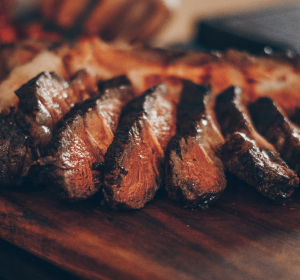
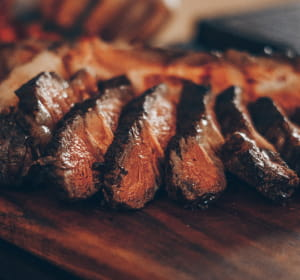
:bento: chore: Optmizing assets

diff --git a/src/assets/funcionamento.jsx b/src/assets/funcionamento.jsx
@@ -5,9 +5,18 @@ import Img from "gatsby-image";
 const Image = () => {
   const data = useStaticQuery(graphql`
     query {
-      placeholderImage: file(relativePath: { eq: "img/funcionamento.jpg" }) {
+      mobileImage: file(
+        relativePath: { eq: "img/mobile/funcionamento-mobile.jpg" }
+      ) {
         childImageSharp {
-          fluid(maxWidth: 2000, quality: 80) {
+          fluid(maxWidth: 1000, quality: 100) {
+            ...GatsbyImageSharpFluid
+          }
+        }
+      }
+      desktopImage: file(relativePath: { eq: "img/funcionamento.jpg" }) {
+        childImageSharp {
+          fluid(maxWidth: 2000, quality: 100) {
             ...GatsbyImageSharpFluid
           }
         }
@@ -15,7 +24,15 @@ const Image = () => {
     }
   `);
 
-  return <Img fluid={data.placeholderImage.childImageSharp.fluid} />;
+  const sources = [
+    data.mobileImage.childImageSharp.fluid,
+    {
+      ...data.desktopImage.childImageSharp.fluid,
+      media: `(min-width: 768px)`,
+    },
+  ];
+
+  return <Img fluid={sources} />;
 };
 
 export default Image;

diff --git a/src/assets/menu-1.jsx b/src/assets/menu-1.jsx
@@ -5,9 +5,16 @@ import Img from "gatsby-image";
 const Image = () => {
   const data = useStaticQuery(graphql`
     query {
-      placeholderImage: file(relativePath: { eq: "img/menu-1.jpg" }) {
+      mobileImage: file(relativePath: { eq: "img/mobile/menu-1-mobile.jpg" }) {
         childImageSharp {
-          fluid(maxWidth: 2000, quality: 80) {
+          fluid(maxWidth: 1000, quality: 100) {
+            ...GatsbyImageSharpFluid
+          }
+        }
+      }
+      desktopImage: file(relativePath: { eq: "img/menu-1.jpg" }) {
+        childImageSharp {
+          fluid(maxWidth: 2000, quality: 100) {
             ...GatsbyImageSharpFluid
           }
         }
@@ -15,7 +22,15 @@ const Image = () => {
     }
   `);
 
-  return <Img fluid={data.placeholderImage.childImageSharp.fluid} />;
+  const sources = [
+    data.mobileImage.childImageSharp.fluid,
+    {
+      ...data.desktopImage.childImageSharp.fluid,
+      media: `(min-width: 768px)`,
+    },
+  ];
+
+  return <Img fluid={sources} />;
 };
 
 export default Image;

diff --git a/src/assets/footer-churrascaria.jsx b/src/assets/footer-churrascaria.jsx
@@ -7,7 +7,9 @@ const ArtDirectedBackground = ({ className, id, children }) => {
   const { mobileImage, desktopImage } = useStaticQuery(
     graphql`
       query {
-        mobileImage: file(relativePath: { eq: "img/footer-churrascaria.jpg" }) {
+        mobileImage: file(
+          relativePath: { eq: "img/mobile/footer-churrascaria-mobile.jpg" }
+        ) {
           childImageSharp {
             fluid(maxWidth: 1000, quality: 80) {
               ...GatsbyImageSharpFluid_withWebp

diff --git a/src/assets/capa-churrascaria.jsx b/src/assets/capa-churrascaria.jsx
@@ -7,7 +7,9 @@ const ArtDirectedBackground = ({ className, id, children }) => {
   const { mobileImage, desktopImage } = useStaticQuery(
     graphql`
       query {
-        mobileImage: file(relativePath: { eq: "img/capa-churrascaria.jpg" }) {
+        mobileImage: file(
+          relativePath: { eq: "img/mobile/capa-churrascaria-mobile.jpg" }
+        ) {
           childImageSharp {
             fluid(maxWidth: 1000, quality: 80) {
               ...GatsbyImageSharpFluid_withWebp

diff --git a/src/assets/footer-contato.jsx b/src/assets/footer-contato.jsx
@@ -7,7 +7,9 @@ const ArtDirectedBackground = ({ className, id, children }) => {
   const { mobileImage, desktopImage } = useStaticQuery(
     graphql`
       query {
-        mobileImage: file(relativePath: { eq: "img/footer-contato.jpg" }) {
+        mobileImage: file(
+          relativePath: { eq: "img/mobile/footer-contato-mobile.jpg" }
+        ) {
           childImageSharp {
             fluid(maxWidth: 1000, quality: 80) {
               ...GatsbyImageSharpFluid_withWebp

diff --git a/src/assets/capa-contato.jsx b/src/assets/capa-contato.jsx
@@ -7,7 +7,9 @@ const ArtDirectedBackground = ({ className, id, children }) => {
   const { mobileImage, desktopImage } = useStaticQuery(
     graphql`
       query {
-        mobileImage: file(relativePath: { eq: "img/capa-contato.jpg" }) {
+        mobileImage: file(
+          relativePath: { eq: "img/mobile/capa-contato-mobile.jpg" }
+        ) {
           childImageSharp {
             fluid(maxWidth: 1000, quality: 80) {
               ...GatsbyImageSharpFluid_withWebp

diff --git a/src/assets/footer-sobre.jsx b/src/assets/footer-sobre.jsx
@@ -7,7 +7,9 @@ const ArtDirectedBackground = ({ className, id, children }) => {
   const { mobileImage, desktopImage } = useStaticQuery(
     graphql`
       query {
-        mobileImage: file(relativePath: { eq: "img/footer-sobre.jpg" }) {
+        mobileImage: file(
+          relativePath: { eq: "img/mobile/footer-sobre-mobile.jpg" }
+        ) {
           childImageSharp {
             fluid(maxWidth: 1000, quality: 80) {
               ...GatsbyImageSharpFluid_withWebp

diff --git a/src/assets/footer-menu.jsx b/src/assets/footer-menu.jsx
@@ -7,7 +7,9 @@ const ArtDirectedBackground = ({ className, id, children }) => {
   const { mobileImage, desktopImage } = useStaticQuery(
     graphql`
       query {
-        mobileImage: file(relativePath: { eq: "img/footer-menu.jpg" }) {
+        mobileImage: file(
+          relativePath: { eq: "img/mobile/footer-menu-mobile.jpg" }
+        ) {
           childImageSharp {
             fluid(maxWidth: 1000, quality: 80) {
               ...GatsbyImageSharpFluid_withWebp

diff --git a/src/assets/capa-sobre.jsx b/src/assets/capa-sobre.jsx
@@ -7,7 +7,9 @@ const ArtDirectedBackground = ({ className, id, children }) => {
   const { mobileImage, desktopImage } = useStaticQuery(
     graphql`
       query {
-        mobileImage: file(relativePath: { eq: "img/capa-sobre.jpg" }) {
+        mobileImage: file(
+          relativePath: { eq: "img/mobile/capa-sobre-mobile.jpg" }
+        ) {
           childImageSharp {
             fluid(maxWidth: 1000, quality: 80) {
               ...GatsbyImageSharpFluid_withWebp

diff --git a/src/assets/capa-menu.jsx b/src/assets/capa-menu.jsx
@@ -7,7 +7,9 @@ const ArtDirectedBackground = ({ className, id, children }) => {
   const { mobileImage, desktopImage } = useStaticQuery(
     graphql`
       query {
-        mobileImage: file(relativePath: { eq: "img/capa-menu.jpg" }) {
+        mobileImage: file(
+          relativePath: { eq: "img/mobile/capa-menu-mobile.jpg" }
+        ) {
           childImageSharp {
             fluid(maxWidth: 1000, quality: 80) {
               ...GatsbyImageSharpFluid_withWebp

diff --git a/src/assets/bg-main.jsx b/src/assets/bg-main.jsx
@@ -7,7 +7,9 @@ const ArtDirectedBackground = ({ className, id, children }) => {
   const { mobileImage, desktopImage } = useStaticQuery(
     graphql`
       query {
-        mobileImage: file(relativePath: { eq: "img/bg-main.jpg" }) {
+        mobileImage: file(
+          relativePath: { eq: "img/mobile/bg-main-mobile.jpg" }
+        ) {
           childImageSharp {
             fluid(maxWidth: 1000, quality: 80) {
               ...GatsbyImageSharpFluid_withWebp
